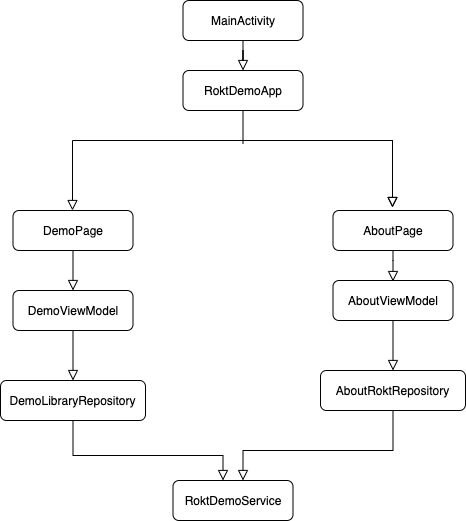
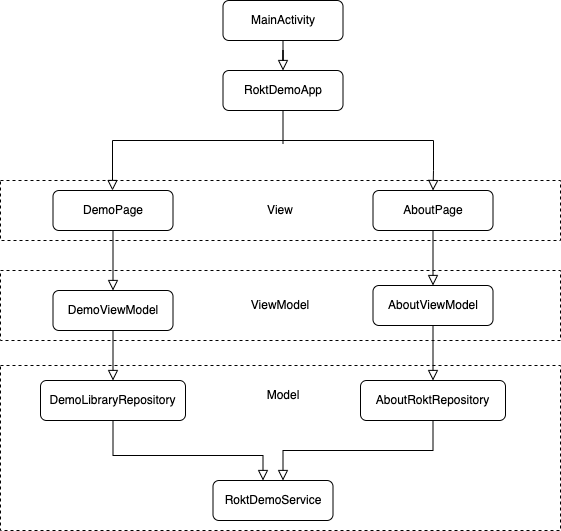
Update architecture explanation

diff --git a/README.md b/README.md
@@ -44,7 +44,16 @@ It can be found here: https://github.com/NedaRobatMeily/docker-image-java-11
 
 ## Project architecture
 
-This project it is implemented based on MVVM pattern and repository pattern.
+This project is implemented based on the MVVM and repository patterns. 
+
+MVVM (Model-View-ViewModel) is an architectural pattern that serves to separate user interface logic from business/program logic.  
+- The Model layer provides the business logic of the application. In this case, it consists of multiple repositories that expose data sources to the ViewModel.
+- The View layer consists of the UI elements that the user interacts with, which are represented by composable elements in this project.  
+- The ViewModel layer connects the Model and View layers. It transforms data from the Model layer and stores the UI state that is accessed by the View layer.  
+
+For example, when the user interacts with the View layer via the UI elements, events are sent to the ViewModel layer. Based on these events, the ViewModel can then access data from the Model layer through the repositories. Using this data, the ViewModel can update the UI state. As the View is observing this UI state, it can then automatically update the UI elements once the ViewModel changes the state. 
+
+This separation of responibility between the three layers ultimately simplifies the project architecture and improves testability by reducing coupling.
 
 ![Architecture](demo.png)
 
